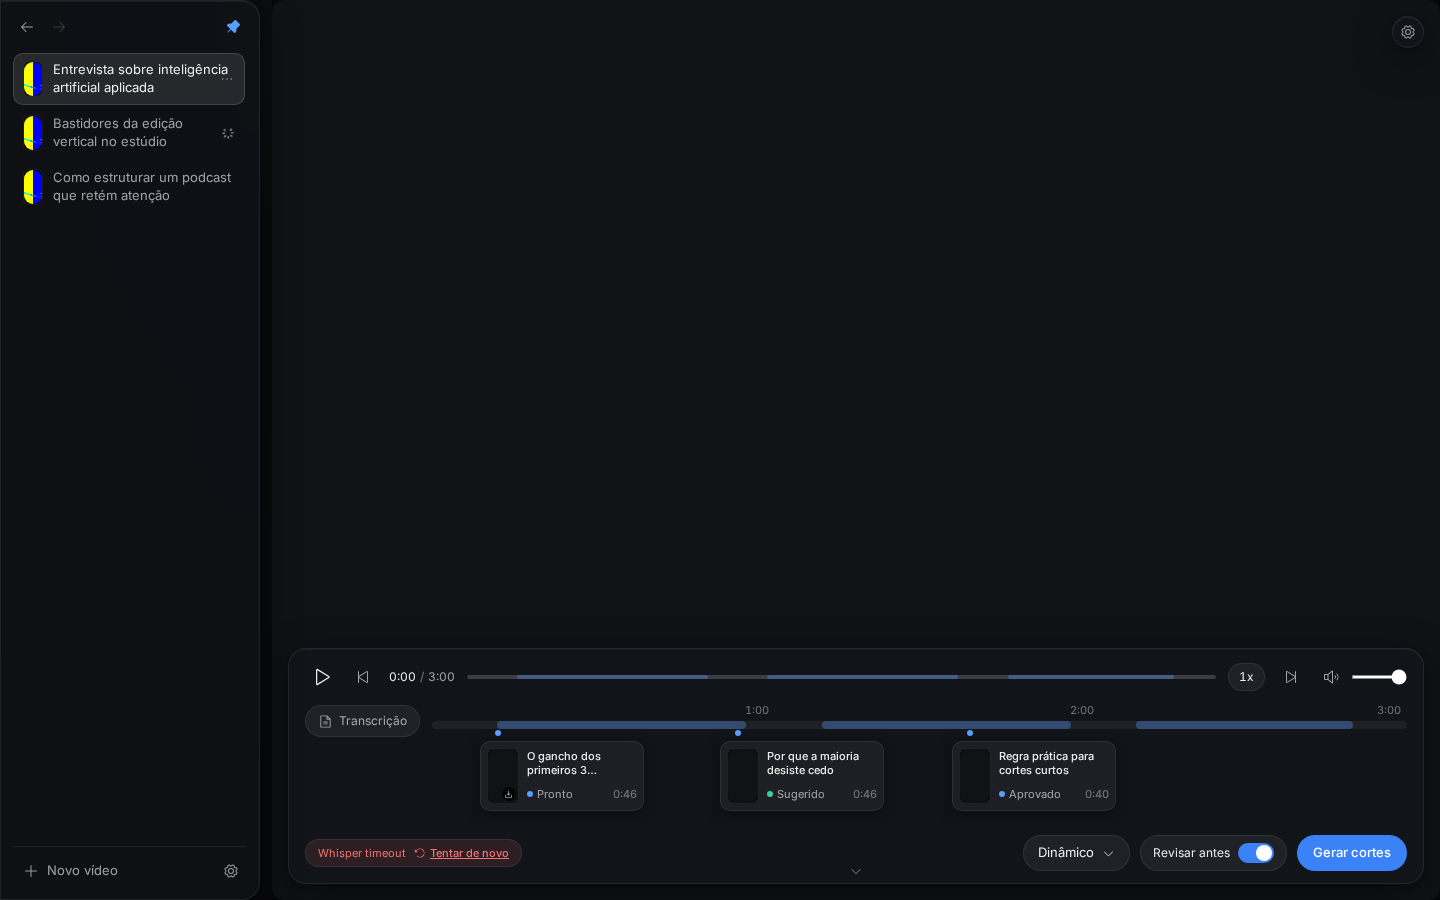
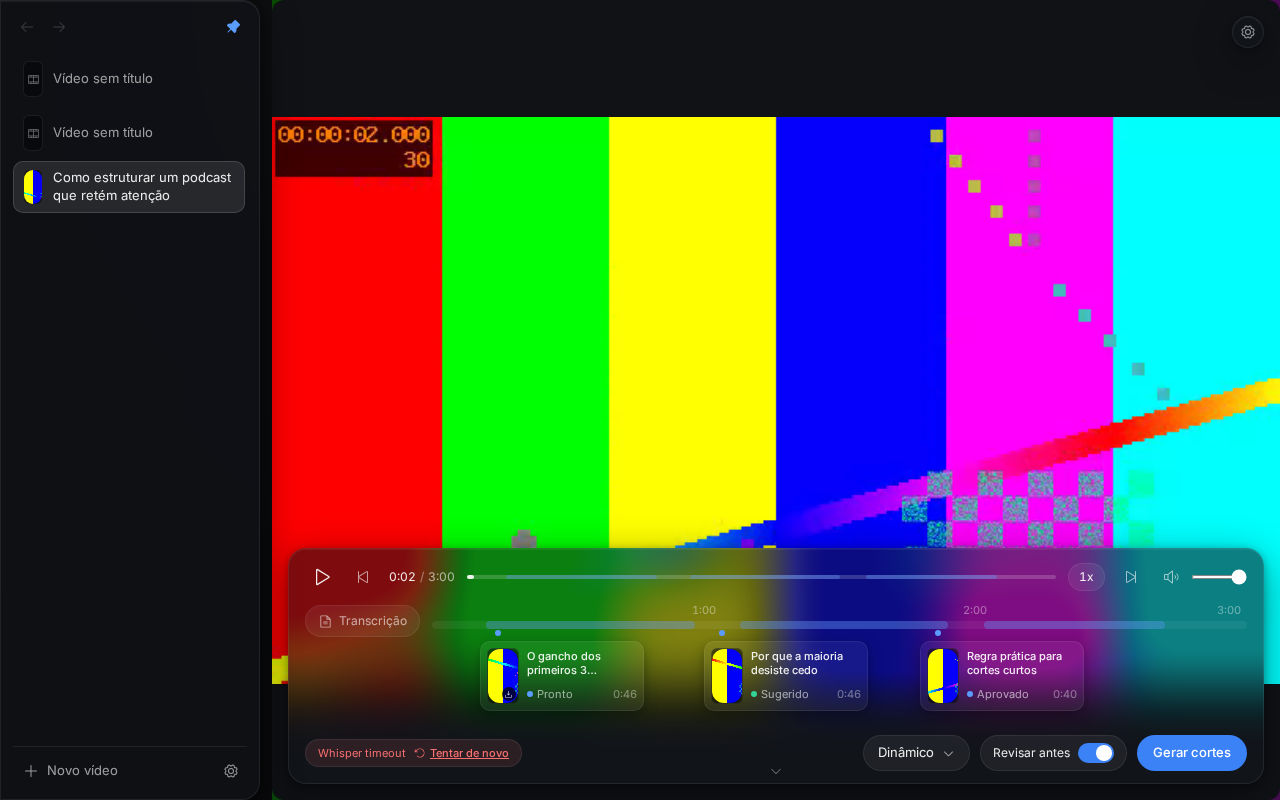
fix(frontend): preserve centering in reduced-motion and sync sidebar open state on focus

diff --git a/frontend/src/components/redesign/ArcSidebar.tsx b/frontend/src/components/redesign/ArcSidebar.tsx
@@ -185,6 +185,20 @@ export function ArcSidebar({
         data-pinned={pinned ? "true" : "false"}
         onMouseEnter={handleSidebarEnter}
         onMouseLeave={scheduleClose}
+        onFocus={() => {
+          if (closeTimerRef.current) {
+            window.clearTimeout(closeTimerRef.current);
+            closeTimerRef.current = null;
+          }
+          if (!pinned && !open) {
+            onSetOpen(true);
+          }
+        }}
+        onBlur={(e) => {
+          if (!pinned && !sidebarRef.current?.contains(e.relatedTarget as Node)) {
+            scheduleClose();
+          }
+        }}
         className={[
           "fixed z-sidebar flex flex-col gap-2 p-3 glass transition-[opacity,transform,border-radius] duration-slow ease-out",
           "focus-within:opacity-100 focus-within:translate-x-0 focus-within:pointer-events-auto",

diff --git a/frontend/src/components/features/ai/PromptTemplate.tsx b/frontend/src/components/features/ai/PromptTemplate.tsx
@@ -41,7 +41,7 @@ export function PromptTemplate({ templates, onRun, ...rest }: PromptTemplateProp
           <select
             value={selectedTemplateId}
             onChange={(event) => setSelectedTemplateId(event.target.value)}
-            className="select-field h-8 w-full rounded-md border-[0.5px] border-border-1 bg-bg-3 px-2 text-body text-text-1 focus:border-border-3 focus:outline-none"
+            className="select-field h-8 w-full rounded-md border-[0.5px] border-border-1 bg-bg-3 px-2 text-body text-text-1 focus:border-border-3 focus-visible:ring-2 focus-visible:ring-accent-ring"
           >
             {templates.map((template) => (
               <option key={template.id} value={template.id}>

diff --git a/frontend/src/components/features/transcript/TranscriptExport.tsx b/frontend/src/components/features/transcript/TranscriptExport.tsx
@@ -32,7 +32,7 @@ export function TranscriptExport({ onExport, ...rest }: TranscriptExportProps) {
           <select
             value={format}
             onChange={(event) => setFormat(event.target.value as TranscriptExportFormat)}
-            className="select-field h-8 rounded-md border-[0.5px] border-border-1 bg-bg-3 px-2 text-body text-text-1 focus:border-border-3 focus:outline-none"
+            className="select-field h-8 rounded-md border-[0.5px] border-border-1 bg-bg-3 px-2 text-body text-text-1 focus:border-border-3 focus-visible:ring-2 focus-visible:ring-accent-ring"
           >
             <option value="txt">TXT</option>
             <option value="vtt">VTT</option>

diff --git a/frontend/src/components/features/ai/ModelSelector.tsx b/frontend/src/components/features/ai/ModelSelector.tsx
@@ -27,7 +27,7 @@ export function ModelSelector({
       <select
         value={value}
         onChange={(event) => onChange(event.target.value)}
-        className="select-field h-8 w-full rounded-md border-[0.5px] border-border-1 bg-bg-3 px-2 text-body text-text-1 focus:border-border-3 focus:outline-none"
+        className="select-field h-8 w-full rounded-md border-[0.5px] border-border-1 bg-bg-3 px-2 text-body text-text-1 focus:border-border-3 focus-visible:ring-2 focus-visible:ring-accent-ring"
       >
         {models.map((model) => (
           <option key={model} value={model}>

diff --git a/frontend/src/lib/tokens.css b/frontend/src/lib/tokens.css
@@ -224,10 +224,18 @@
     transition: opacity 0.01ms !important;
   }
 
-  [class*="translate-"],
-  [class*="scale-"],
-  [class*="hover:-translate-"] {
-    transform: none !important;
+  .-translate-x-3 {
+    --tw-translate-x: 0px !important;
+  }
+
+  .-translate-y-0\.5,
+  .hover\:-translate-y-\[1px\]:hover {
+    --tw-translate-y: 0px !important;
+  }
+
+  .active\:scale-\[0\.98\]:active {
+    --tw-scale-x: 1 !important;
+    --tw-scale-y: 1 !important;
   }
 }
 
